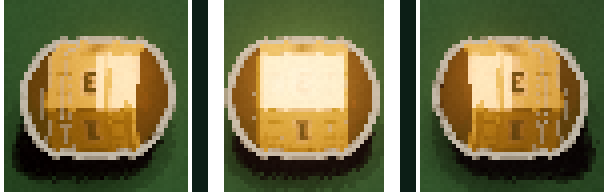
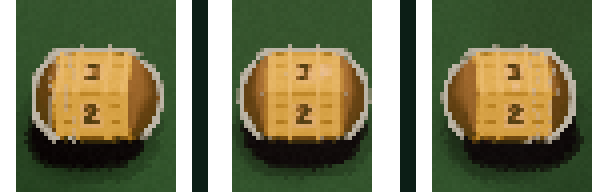
Turn the landed 3 upright and keep stave dim on the Twin shader.
Yaw 180 on the rest camera matches the #267 numeral pose (yaw 0 reads as a backwards E; the atlas itself is fine). KegStaveDim's lit_stave, stave_dim, keg_body and spec_strength 0.05 still apply after the twin swap. The content log records the shipped mask.

diff --git a/docs/AI_CONTENT_LOG.md b/docs/AI_CONTENT_LOG.md
@@ -83,6 +83,7 @@ VFX Dev = FX textures and shaders, Game Designer = text. Sources are in brackets
 | `art/models/dice/shaders/toon_mirror.gdshader` | **AI-assisted:** shader code written by Grok Bot agents | Mirror Die toon shader. [VFX Dev, git check 2026-10-19] | 2026-10-18 | VFX Dev |
 | `shaders/3d/toon_noir_twin.gdshader`, `shaders/3d/twin_face_mask.gdshaderinc` | **AI-assisted:** shader code written by Grok Bot VFX Dev agent | Twin Face glow mask: toon_noir variant + include (Powder Keg Ember glyph; up+settled gate). `toon_noir.gdshader` untouched. [VFX Dev / PR #113] | 2026-10-19 | VFX Dev |
 | `art/fx/twin_face/twin_face_mask_standin.png` | **AI-assisted (agent-written script):** Python + Pillow stand-in generated by the VFX Dev agent; not final art (3D Artist ships the real mask after batch-3) | Stand-in UV1 mask (R=hard glyph, G=soft halo) for Twin Face tests and captures. [art/fx/twin_face/README.md; VFX Dev / PR #113] | 2026-10-19 | VFX Dev |
+| `art/fx/twin_face/powder_keg_twin_mask.png` | **AI-assisted (agent-written script):** Art Director handoff, regenerator `make_twin_mask.py` (make_faces-style, read-only against the repo). See `art/fx/twin_face/powder_keg_twin_SPEC.md` | Shipped Twin Face UV1 mask for the Powder Keg 3s. 1024 RGBA, R = hard glyph, G = halo (0 inside R), B = 0, A = 255, marks in cell 2 only. Weights, not a coloured texture. | 2026-11-12 | Art Director |
 | `assets/vfx/trigger_fx/icons/` (8 PNGs: `icon_mirror_copy`, `icon_gilded_payout`, `icon_coin_heads_copy`, `icon_coin_tails_copy`, `icon_coin_alone_heads`, `icon_hellfire_face`, `icon_wild_face`, `icon_generic`) | **AI-assisted (agent-written script):** Art Director's code-generated art (SVG/Pillow sheet); no AI image generation. Copied into the repo for the trigger FX rows. | Baked 128 px icon discs (glyph + rim studs) shown at 32 px @720p on trigger hit. [team art folder `art/vfx/trigger_fx/`; VFX Dev / PR #105] | 2026-10-19 | Art Director |
 | `assets/vfx/trigger_fx/shapes/` (20 PNGs: `ring_pulse_soft`, `radial_glow_soft`, `glint_streak`, `spark_dot_soft`, `coin_brass_{face,tilt,edge}`, `chip_x{1_5,2,3}`, plus fill/outline pairs for `frame_square`, `frame_hex`, `needles_radial`, `shine_bar`, `spark_diamond`) | **AI-assisted (agent-written script):** Art Director's code-generated art (SVG/Pillow); no AI image generation. Soft shapes tinted at runtime; hard shapes keep a fixed oxblood outline. | Trigger FX cards, glints, sparks, brass coin frames and multiplier chips. [team art folder `art/vfx/trigger_fx/`; VFX Dev / PR #105] | 2026-10-19 | Art Director |
 | `tools/capture_trigger_fx.gd` | **AI-assisted:** capture tool written by the Grok Bot VFX Dev agent | Headless/Vulkan strip captures of the four first trigger FX rows for QA / Art Director review. Excluded from export (`tests/*`, `tools/*`). [VFX Dev / PR #105] | 2026-10-19 | VFX Dev |
